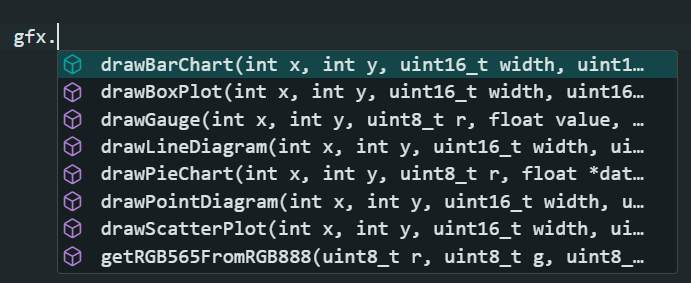
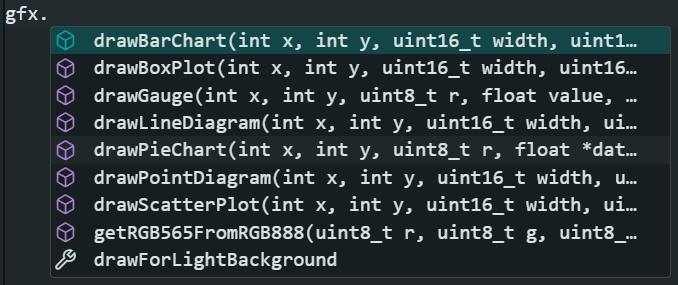
Added boolean 'drawForLightBackground' and updated examples.

diff --git a/InternalUtils.cpp b/InternalUtils.cpp
@@ -150,10 +150,10 @@ float InternalUtils::getMedian(float data[], int start, int end){
 	}
 }
 
-//This code doesn't seem to work? I don't want the user to have to pass in the background color so this is just gonna remain returning false for now. Maybe it has something to do with the "readPixel" function?
+//This code doesn't seem to work? I don't want the user to have to pass in the background color so this is just gonna remain returning false for now. Maybe it has something to do with the "readPixel" function? the commented out section is the code as it would've been.
 bool InternalUtils::isLightBackground(Adafruit_TFTLCD &gfx, int x, int y){
     //uint16_t color = gfx.readPixel(x, y);
-
     //return color > 0x7FFF;
-    return false;
+
+    return TFTGraph::drawForLightBackground;
 }

diff --git a/TFTGraph.h b/TFTGraph.h
@@ -14,7 +14,11 @@
 
 class TFTGraph {
     public:
-        TFTGraph(Adafruit_TFTLCD &gfx) : _gfx(gfx) {};
+        TFTGraph(Adafruit_TFTLCD &gfx) : _gfx(gfx) {}; //Constructor
+
+        //if true = draw all borders using black instead of white.
+        //this is a "temporary" solution as the "readPixel" function can't be utilized.
+        static bool drawForLightBackground;
 
         //--------------->
         void drawBarChart(int x, int y, uint16_t width, uint16_t height, float data[], float start, float end, uint16_t color, bool drawBackground);

diff --git a/InternalUtils.h b/InternalUtils.h
@@ -5,6 +5,7 @@
 
 class InternalUtils {
     public:
+        //---->
         static double sind(double deg);
         static double cosd(double deg);
 
@@ -19,6 +20,7 @@ class InternalUtils {
         static float getMedian(float data[], int start, int end);
 
         static bool isLightBackground(Adafruit_TFTLCD &gfx, int x, int y);
+        //<----
 };
 
 #endif

diff --git a/TFTGraph.cpp b/TFTGraph.cpp
@@ -3,6 +3,8 @@
 #include "TFTGraph.h"
 #include "InternalUtils.h"
 
+bool TFTGraph::drawForLightBackground = false;
+
 void TFTGraph::drawBarChart(int x, int y, uint16_t width, uint16_t height, float data[], float start, float end, uint16_t color, bool drawBackground){
 
 	//cleaning values:

diff --git a/README.md b/README.md
@@ -26,7 +26,7 @@ TFTGraph gfx(tft);
 The names here are arbitrary, but for this example; `Adafruit TFTLCD` is `tft` and `TFTGraph` is `gfx`.
 
 ### Creating graphs/diagrams:
-By simply typing "`gfx.`" a list of all drawable graphs appear, as well as a `RGB888` to `RGB565` converter.
+By simply typing "`gfx.`" a list of all drawable graphs appear, as well as a `RGB888` to `RGB565` converter and a global boolean called `drawForLightBackground`.
 
 ![Getting list of all graphs](extras/creating_graphs.jpg)
 
@@ -39,6 +39,12 @@ And here you can add in the values with the given datatypes and see a diagram ap
 Important to note that graphs can be combined as shown in the examples `LineAndPointDiagramCombination` and `StackedAreaGraph`. This is easy to do as you can disable background drawing when drawing a graph, making overlapping graphs possible.
 
 Also notice the `getRGB565FromRGB888()` function. Pass in the traditional 8-bit RGB values into the functions to get the unsigned 16-bit integer color value required in all of the graphs.
+
+If you want to utilize a light background (like pure white) for the diagrams to be drawn in front of, you can set the boolean `drawForLightBackground` to `true`. This can be done like this:
+```c++
+gfx.drawForLightBackground = true;
+```
+This sets the primary colors of borders and text to black instead of white, making them contrast with the background.
 
 ## Contact/Help:
 If you want to suggest a new graph or diagram to add to this library, please do [send an email](mailto:nick.awsome74@gmail.com)! This project is also open-source, so feel free to add one yourself using the already established modular function setup. :)
